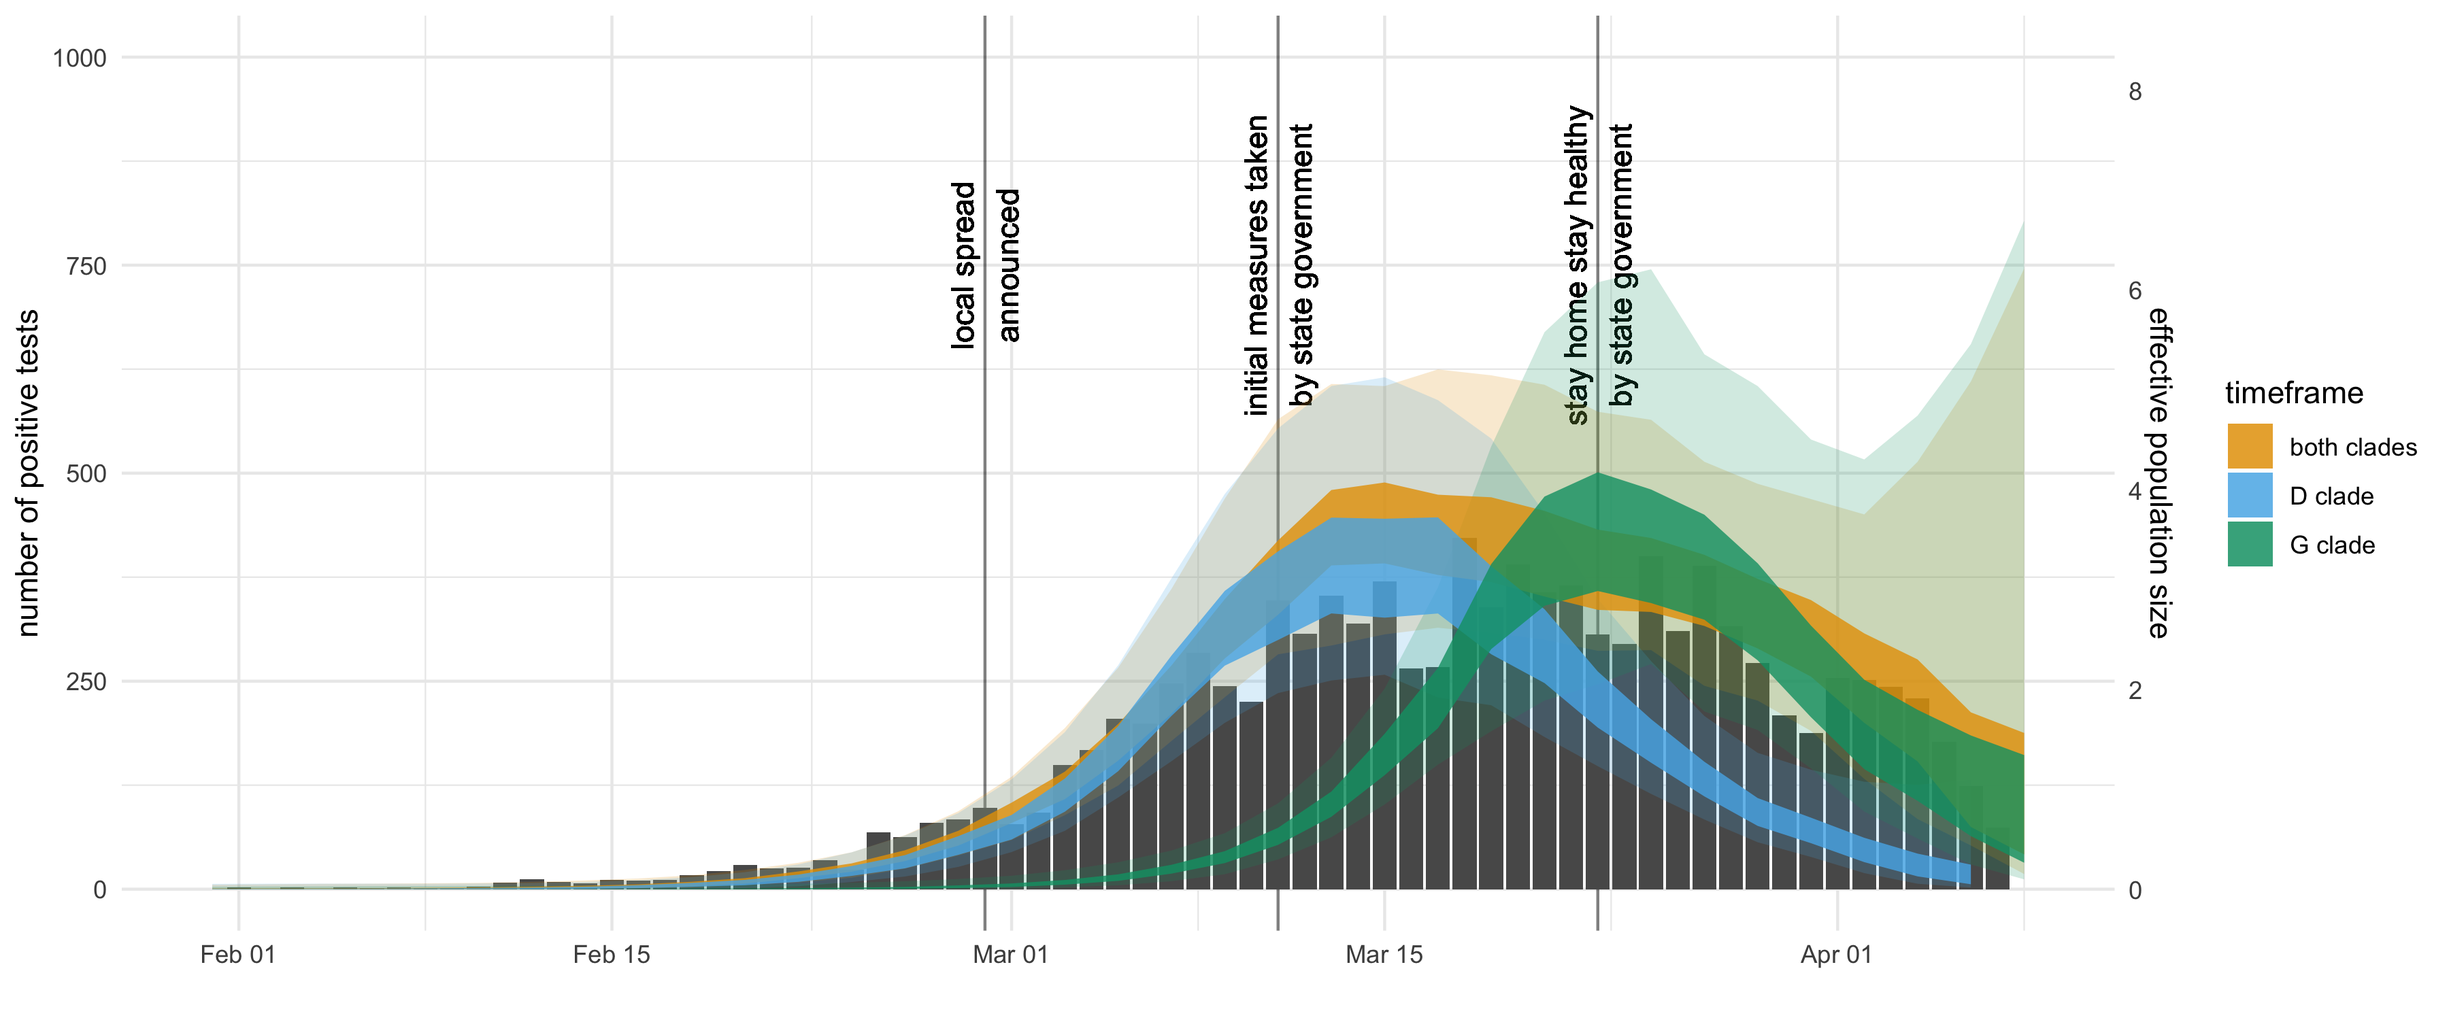
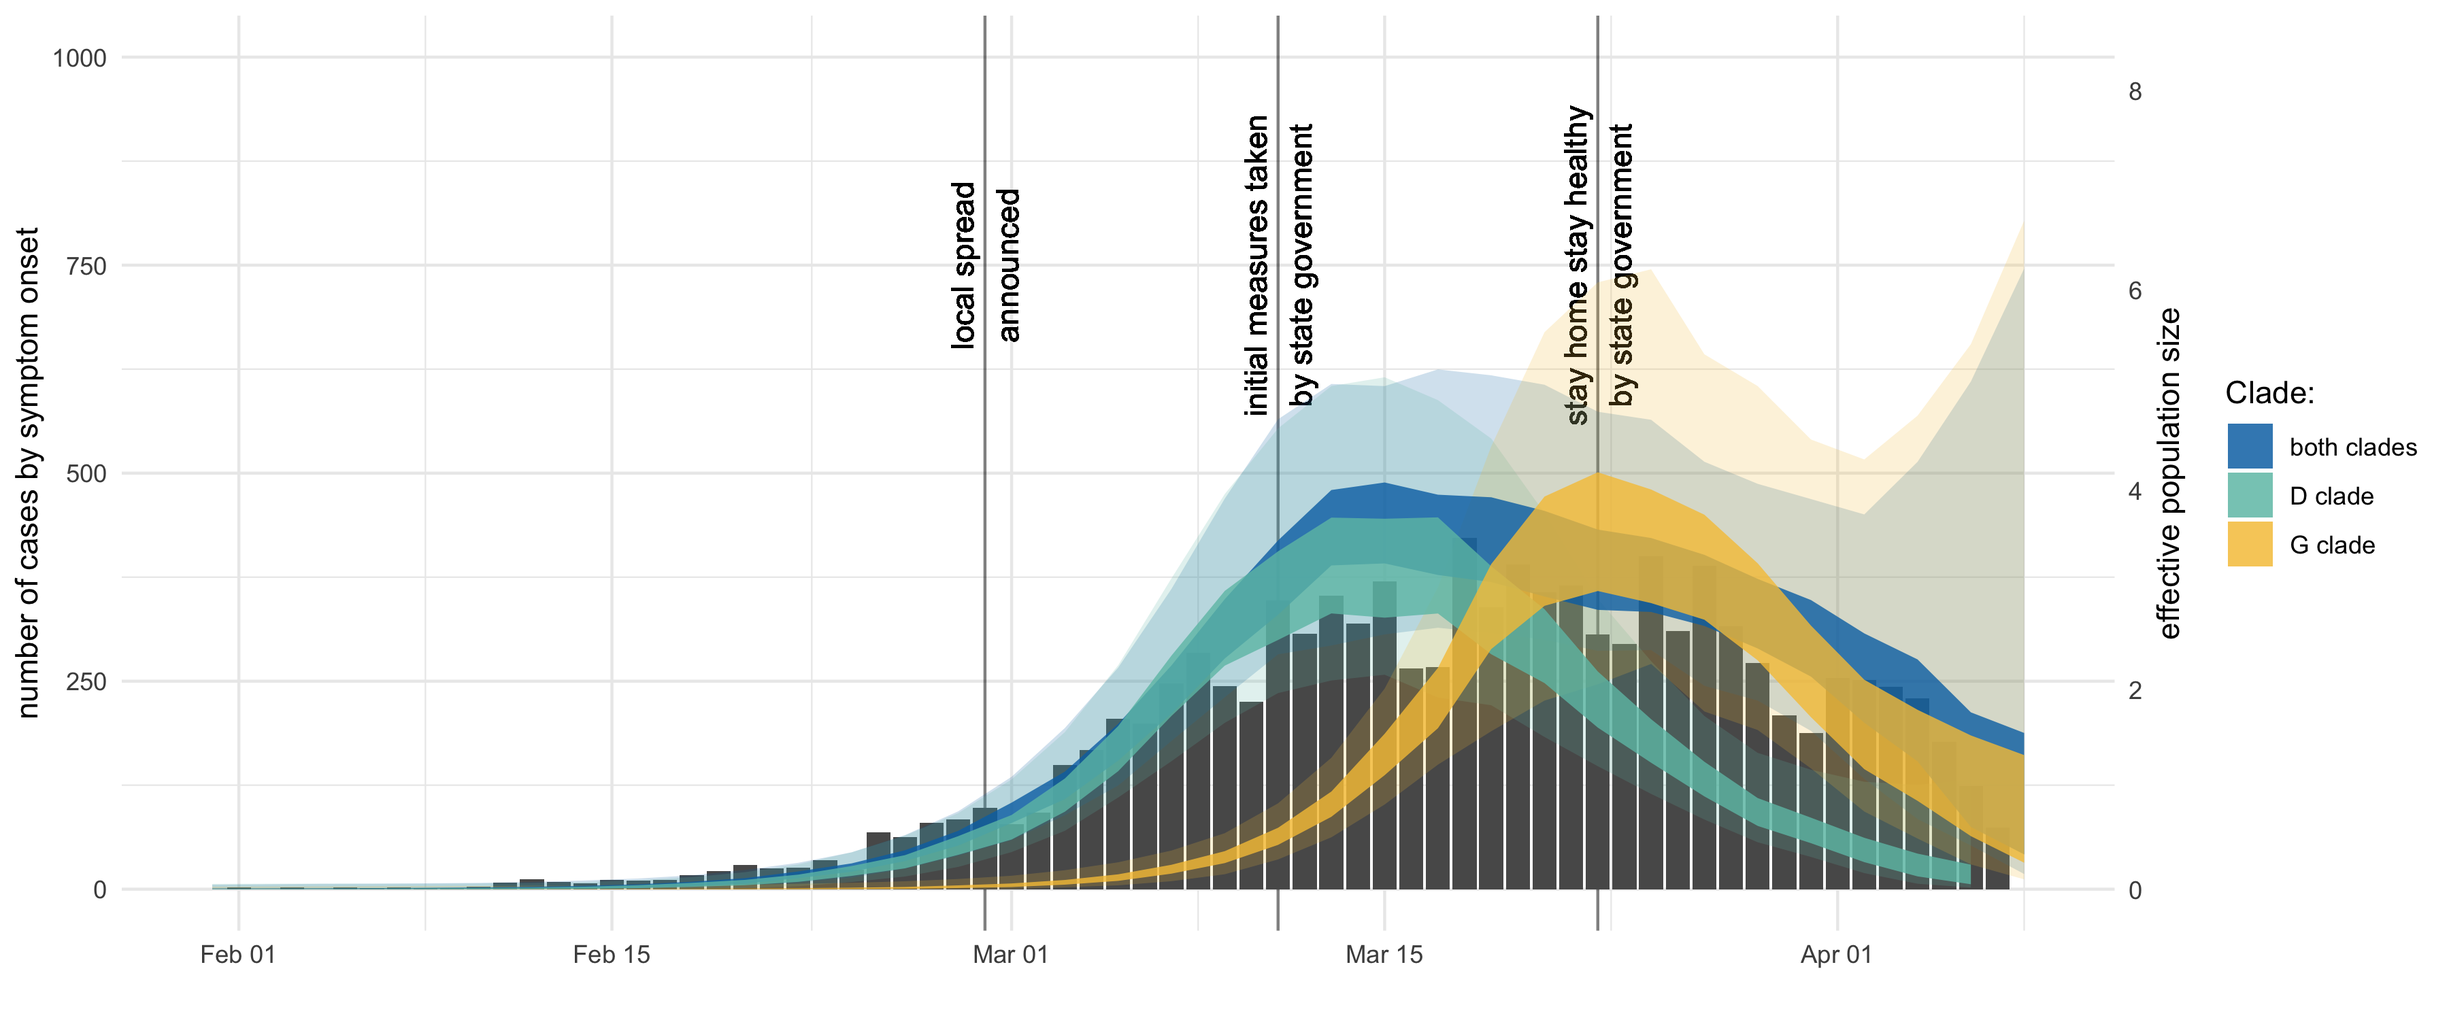
re-organizes order, distinguished between clades

diff --git a/README.md b/README.md
@@ -64,56 +64,138 @@ Second, we use an approach where we assume that the differences the growth rates
 This is equivalent to using an exponential coalescent model with time varying growth rates.
 We implemented this approach as extension to the Bayesian phylogenetics software BEAST2 ([Bouckaert et al][Bouckaert et al]).
 The code for the multi tree coalescent is available here (https://github.com/nicfel/NAB).
+We allow the effective population sizes to change every 2 days and the rates of introduction to change every 14 days.
+The inference of the effective population sizes and rates of introductions is performed using a adaptive multivaraite gaussian operator ([Baele et al][Baele et al]), implemented here https://github.com/BEAST2-Dev/BEASTLabs.
 
 In contrast to backwards in time coalescent approaches, we can consider different local outbreak clusters as independent observations of the same underlying population process using birth death models.
 We infer the effective reproduction number using the birth-death skyline model by assuming the different local outbreak clusters are independent observations of the same process with the same parameters ([Müller et al][Müller et al]).
+We allow the effective reproduction number to change evert 2 days.
 As for the coalescent approach, we assume adjacent effective reproduction numbers to be normally distributed in log space with mean 0 and an estimated sigma.
-We further assume the becoming un-infectious rate to be 36.5 per year which corresponds to an average time of infectivity of 10 days.
-Further, we assume that the probability of an individual to be sampled and sequenced upon recovery to be the same throughout the sampled period.
+We further assume the becoming un-infectious rate to be 36.5 per year which corresponds to an average time of infectivity of 10 days ([Ferretti et al][Ferretti et al]).
+We allow that the probability of an individual to be sampled and sequenced upon recovery to change every 14 days.
 
 ### Sampling of epidemiologically unlinked cases
 
-Phylodynamic approaches typically assume that all the available sequences are representative of the underlying population.
-In other words, this means that they assume that all samples were taken at random.
-We have sequences from different laboratories using different testing criteria in Washington State.
-First, we have sequences from test performed by UW Virology, which are sequences typically isolated from sick patients.
-We assume that the samples from UW Virology were indeed sampled at random and therefore include all of those in the analysis.
-Additionally, we have sequences from the Washington Department of Health (WADoH) and the Seattle Flu Study.
-A large amount of samples from WADoH are sampled at the same time and cluster together and therefore might not be unlinked.
-Samples from the Seattle Flu Study are more evenly distributed across the tree.
-We, however, see a lot of sequences sampled on the same day clustering together and can not directly assume they are unlinked as well.
-
-In order to still include at least some of those cases while still having an at least somewhat unbiased way of including them, we performed two separate sub-sampling procedures.
-We once add 50 and once 150 samples from the Seattle Flu Study and WADoH to the samples from UW Virology.
-To do so, we randomly chose 50 (or 150) samples from this pool using the inverse number of samples from the same day as the probability of choosing a sample.
-This does two fold.
-First, it gives us a more event distribution of samples through time.
-Second, it puts lower weights on days where we have a lot of samples.
-These are also samples that are more prone to epidemiological linkage.
-The different number of samples are to see if more samples, and therefore potentially more linked samples, change the results
+We analysed the population dynamics in total for 3 different datasets.
+In the first datasets, we randomly subsample 1000 of the sequences from Washington State.
+The sequences were selected at random using the inverse of the total number of samples per day as the weight.
+For the second and third dataset, we distinguish between two different clades we call D and G.
+The D clade consists of all sequences with a aspartic acid at site 614 of the spike protein.
+The G clade consists of all sequences with a glycine at this positions (see here https://nextstrain.org/ncov/global?c=gt-S_614).
+For these two datasets, we use the same subsampling procedure as for the above dataset, but with 500 sequences from each clade.
 
 ## Results
 
 ### Outbreak in Washington State caused by repeated introductions
 
+
+
 SARS-CoV-2 was introduced repeatedly into Washington State from different parts of the world.
 The outbreak can be separated into two larger groups that make up the majority of cases and the majority of cases originated from at least two different introductions into Washington State.
-The first one was likely introduced around the beginning of February either directly from China or via unknown intermediate locations.
-The second one is derived from lineages from Europe and was most likely introduced between mid and the end of February.
+Among other genetic differences between these larger outbreak clusters, the substitution of aspartate (D) at position 614 of the spike protein to a glycine (G) has been of particular interest.
+This is due to a previously suggested association with higher transmission and more severe clinical outcome ([Korber et al][Korber et al]).
+
+The two larger local outbreak cluster were introduced at different times.
+The first one was likely introduced around the beginning of February either directly from China or via unknown intermediate locations ([Bedford et al][Bedford et al]) and is part of the D clade.
+
+The second one is derived from lineages from Europe and was most likely introduced between mid and the end of February and is part of the G clade.
 As for the introduction from China, it is very much possible that these were not direct introduction an intermediate locations were involved.
+Viruses closely related to the ones of this second local outbreak cluster, for example, are responsible for a large percentage of cases in the New York area.
 
 To date, and as shown in the figure below, these two local outbreak cluster make up the vast majority of cases in Washington State.
 Additionally, we see evidence for several additional introductions of lineages into Washington State that are derived from lineages that previously circulated in Europe, as well as from some, were the origin of the lineage is more uncertain.
-These lineages were most likely introduced from areas were sampling and sequencing is sparse, which could include other areas of the United States.
+
+After having comprised most of the cases initially, the D clade almost went extinct in Washington State.
+In turn, The proportion of cases from the G clade steadily increased over time.
 
 <figure>
 	<a id="fig:ltt"></a>
 	<img style="width:90%;" src="figures/coal_ltt.png" alt="">
 	<figcaption>Figure 1: Lineage through time plot of different local outbreak clusters that have more than one sampled sequence.
   The plot show the inferred lineages through time for different local outbreak clusters.
-  The different lineage through time plots are colored by their likely source of introduction outside the USA.
+  The different lineage through time plots are colored by the amino acid on position 614 on the spike protein.
   </figcaption>
 </figure>
+
+### Rapid early growth of COVID-19 cases
+
+Due to a lack of testing, it was for a long time unclear whether there was local transmission in the USA in general, as well as in Washington State.
+After local transmission was shown on February 29th, testing and genetic sequencing of viruses was started.
+The genetic sequence data allow us to reconstruct transmission dynamics even before large scale testing for COVID-19 began.
+
+To do so, we use two approaches, a birth-death skyline approach where we treat each separate introduction as independent observation of the same local population dynamics ([Müller et al][Müller et al]).
+Additionally, we use a coalescent skyline approach, where we model the coalescence of lineages in Washington State and the introduction of lineages into the state as structured coalescent process with known migration histories.
+The migration histories are given by the initial clustering of sequences into groups of local outbreak clusters.
+
+We estimated the trend in $$R_{e}$$ using sequences from both clades, or the D respectively the G clade individually.
+Using all sequences, we estimate that the outbreak grew rapidly with and $$R_{e}$$ of around 3 between mid and end of February.
+This estimate of $$R_{e}$$ is consistent with estimates of effective reproduction numbers from other places before non-pharmaceutical interventions were taken.
+We observe the maximal values for $$R_{e}$$ during a time when it was unknown that SARS-CoV-2 was spreading in the USA.
+After community spread in Washington State was first reported on the 29th of February, the effective reproduction number started to drop.
+
+
+The initial decline in $$R_{e}$$, was mostly driven by a decline in $$R_{e}$$ of the D clade.
+The G clade, on the other hand, seems to have a high $$R_{e}$$ of around 3 for slightly longer, with a decrease in $$R_{e}$$ starting in early March.
+Notably, however, we do not see a difference in the maximal $$R_{e}$$ and only observe a difference in when the decline in $$R_{e}$$ occured.
+This difference in decline could be explained by the different clades circulating in different geographic and or social groups in Washington State.
+Spread of SARS-CoV-2 was initially reported to be mainly in Snohomish County, north of Seattle.
+This might have affected behavior more strongly in these areas than in places where the G clade was circulating.
+This means that the changes in relative frequencies of D and G clade can likely be explained by a difference in when the $$R_{e}$$ started to decline, rather than in a difference in the maximal observed $$R_{e}$$.
+
+After measures by the state government were first taken on the 11th of March, the $$R_{e}$$ was close to 1 when using sequences from both clade and when using only sequences from the D clade.
+When using only sequences from the G clade, the estimate of $$R_{e}$$ only dropped to around 1 close to when the "Stay Home Stay Healthy" lockdown was implemented.
+Using any set of sequences, we estimate the $$R_{e}$$ to be around or below 1 after the "Stay Home Stay Healthy".
+
+The inferred trends in effective reproduction numbers are consistent with a decrease in daily mobility of people that started at the beginning of March (https://covid.idmod.org/data/Physical_distancing_working_and_still_needed_to_prevent_COVID-19_resurgence.pdf).
+
+
+<figure>
+	<a id="fig:R0"></a>
+	<img style="width:90%;" src="figures/R0.png" alt="">
+	<figcaption>Figure 4: Effective reproduction number of of SARS-CoV-2 in Washington State.
+  The effective reproduction number (on the y-axis) is estimated for intervals of 2 days using a birth-death skyline model ([Stadler et al][Stadler et al]).
+  The three different lines show when local transmission was first reported in WA, when initial state wide measures began and when the stay at home order was issued.
+  </figcaption>
+</figure>
+
+
+### Testing of cases accurately reflects trends in new cases.
+
+While there is intensive testing for COVID-19 in Washington State since the beginning of March, sampling as a percentage of overall cases likely remained low.
+Using the coalescent, we can estimate past population dynamics while conditioning on sampling, which means that we do not directly consider the number of samples through time as informative about the population dynamics.
+
+Using a coalescent skyline approach, we test whether there are significant transmission dynamics that are not captured in the number of positive tests through time.
+
+
+
+We find that daily growth rate in new cases computed from the number of daily positive test to the growth rate estimates from the coalescent skyline approach agree well.
+As mentioned above, the PCR testing captured the last part of the rapid initial rapid growth phase and agrees well after that with the phylodynamic estimates.
+
+<figure>
+	<a id="fig:R0"></a>
+	<img style="width:90%;" src="figures/coal_Ne_vs_test.png" alt="">
+	<figcaption>Figure 6: Comparison between the inferred effective population sizes and number of positive samples by symptom onset.
+  Here we compare the inferred effective population sizes (y-axis, right) to the number of positive samples by symptom onset (y-axis, left).
+	The number of positive samples is shifted by 5 days to correct for the average time difference between the time of infection and onset of symptoms.
+	We show the inferred effective population sizes inferred from sequences from the D and G clade and the two clades seperately.
+  </figcaption>
+</figure>
+
+
+
+
+<figure>
+	<a id="fig:R0"></a>
+	<img style="width:90%;" src="figures/coal_growth.png" alt="">
+	<figcaption>Figure 6: Comparison between growth rate estimates using the coalescent skyline and testing data.
+  Here we compare the growth rates (on the y-axis) of the Washington State outbreak to the growth rates calculated from the number of positive tests from UW Virology.
+  The growth rate estimates from UW Virology are shifted by 9 days to reflect the time delay between the time of infection and the occurrence of symptoms.
+  </figcaption>
+</figure>
+
+
+
+
 
 ### Introductions caused but did not drive the outbreak
 
@@ -137,7 +219,6 @@ As shown in the figure below, we estimate the percentage of new cases to be belo
   </figcaption>
 </figure>
 
-
 We next test how likely adding more samples is to reveal new introductions into Washington State.
 The less likey this is, the less important introductions are to driving the outbreak.
 We test this by randomly subsampling the overall dataset and counting the number of introductions after.
@@ -159,62 +240,6 @@ We find that the observed patterns are very similar to those expected for 1% of 
 </figure>
 
 
-### Rapid early growth of COVID-19 cases
-
-Due to a lack of testing, it was for a long time unclear whether there was local transmission in the USA in general, as well as in Washington State.
-After local transmission was shown on March the 5th, COVID-19 cases from Washington State were sequenced.
-These genetic sequence data allow us to reconstruct transmission dynamics even before large scale testing for COVID-19 began.
-
-To do so, we use two approaches, a birth-death skyline approach where we treat each separate introduction as independent observation of the same local population dynamics.
-Additionally, we use a coalescent skyline approach, where we model the coalescence of lineages in WA and the introduction of lineages into WA as structure coalescent process with known migration histories.
-The migration histories are given by the initial clustering of sequences into groups of local outbreak clusters.
-
-When estimating the effective reproduction number through time, we see that the outbreak grew rapidly with and $$R_{e}$$ of around 3 between mid and end of February.
-This $$R_{e}$$ is consistent with estimates of effective reproduction numbers from other places before non-pharmaceutical interventions were taken.
-During this time, it was unknown that SARS-CoV-2 was spreading in the USA.
-
-After community spread in Washington State was first reported on the 29th of February, the effective reproduction number started to drop.
-Measures by the state government were first taken on the 11th of March.
-We infer the effective reproduction number to be around 1 after than day and therefore before the "stay home stay healthy" order was taken on March 23rd.
-
-The inferred trends in effective reproduction numbers are consistent with a decrease in daily mobility of people that started at the beginning of March (https://covid.idmod.org/data/Physical_distancing_working_and_still_needed_to_prevent_COVID-19_resurgence.pdf).
-
-
-<figure>
-	<a id="fig:R0"></a>
-	<img style="width:90%;" src="figures/R0.png" alt="">
-	<figcaption>Figure 4: Effective reproduction number of of SARS-CoV-2 in Washington State.
-  The effective reproduction number (on the y-axis) is estimated for intervals of 2 weeks using two different approaches.
-  The coalescent skyline and birth death skyline both estimate a very high reproduction rate between mid and end of February and a drastic slow down in March.
-  The three different lines show when local transmission was first reported in WA, when initial lock downs began and when the stay at home order was issued.
-  </figcaption>
-</figure>
-
-
-
-
-### Testing of cases accurately reflects trends in new cases.
-
-While there is intensive testing for COVID-19 in Washington State since the beginning of March, sampling as a percentage of overall cases likely remained low.
-We here test whether there are significant transmission dynamics that are not captured in the number of positive tests through time.
-As we reconstruct the population dynamics from genetic sequence data, we use information from how individual cases are related genetically to reconstruct population dynamics.
-Using the coalescent approach described above, this allows us to reconstruct the population dynamics of the spread of COVID-19 while conditioning on the sampling.
-This means that we do not directly use the number of samples through time to inform these population dynamics.
-This, in turn, allows us to test whether there are undetected transmission dynamics that are not captured by the number of positive samples through time.
-
-We find that daily growth rate in new cases computed from the number of daily positive test to the growth rate estimates from the coalescent skyline approach agree well.
-As mentioned above, the PCR testing captured the last part of the rapid initial rapid growth phase and agrees well after that with the phylodynamic estimates.
-
-
-<figure>
-	<a id="fig:R0"></a>
-	<img style="width:90%;" src="figures/coal_growth.png" alt="">
-	<figcaption>Figure 6: Comparison between growth rate estimates using the coalescent skyline and testing data.
-  Here we compare the growth rates (on the y-axis) of the Washington State outbreak to the growth rates calculated from the number of positive tests from UW Virology.
-  The growth rate estimates from UW Virology are shifted by 9 days to reflect the time delay between the time of infection and the occurrence of symptoms.
-  </figcaption>
-</figure>
-
 
 # Discussion
 
@@ -230,6 +255,11 @@ As mentioned above, the PCR testing captured the last part of the rapid initial 
 * [Kendall]: https://doi.org/10.1214/aoms/1177730285
 * [Bouckaert et al]: https://doi.org/10.1371/journal.pcbi.1006650
 * [Müller et al]: https://doi.org/10.1101/2020.04.27.052225
+* [Baele et al]: https://doi.org/10.1093/bioinformatics/btx088
+* [Ferretti et al]: https://doi.org/10.1126/science.abb6936
+* [Korber et al]: https://doi.org/10.1101/2020.04.29.069054
+* [Stadler et al]: https://doi.org/10.1073/pnas.1207965110
+
 
 
 
